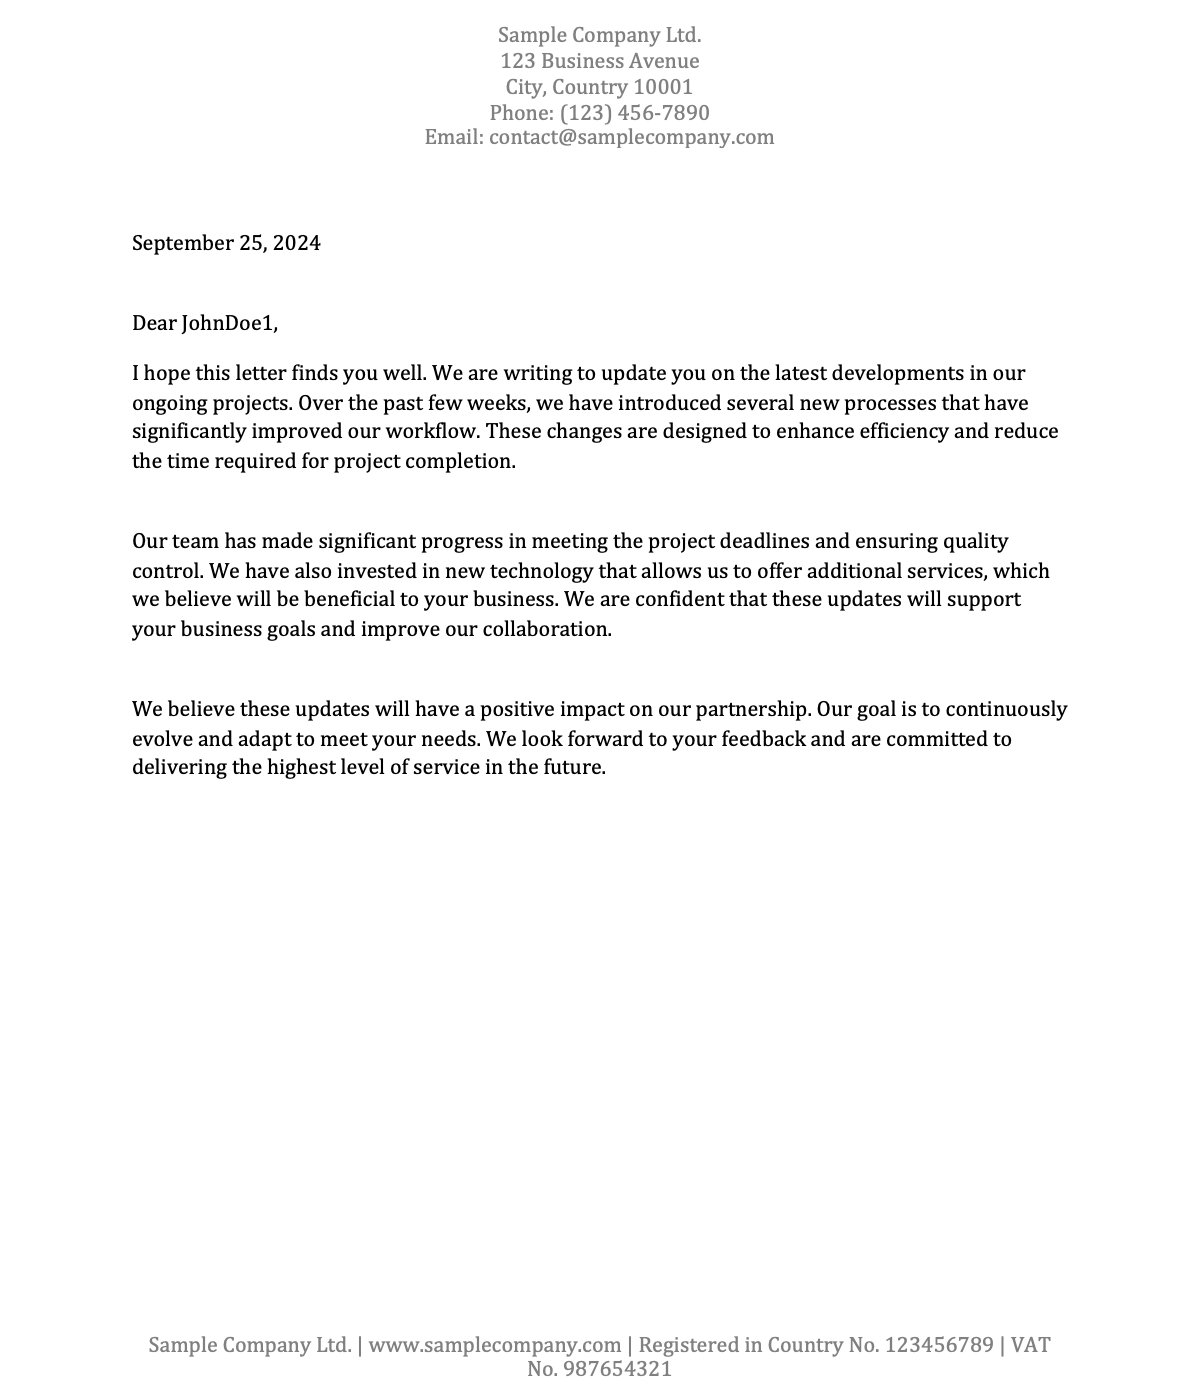
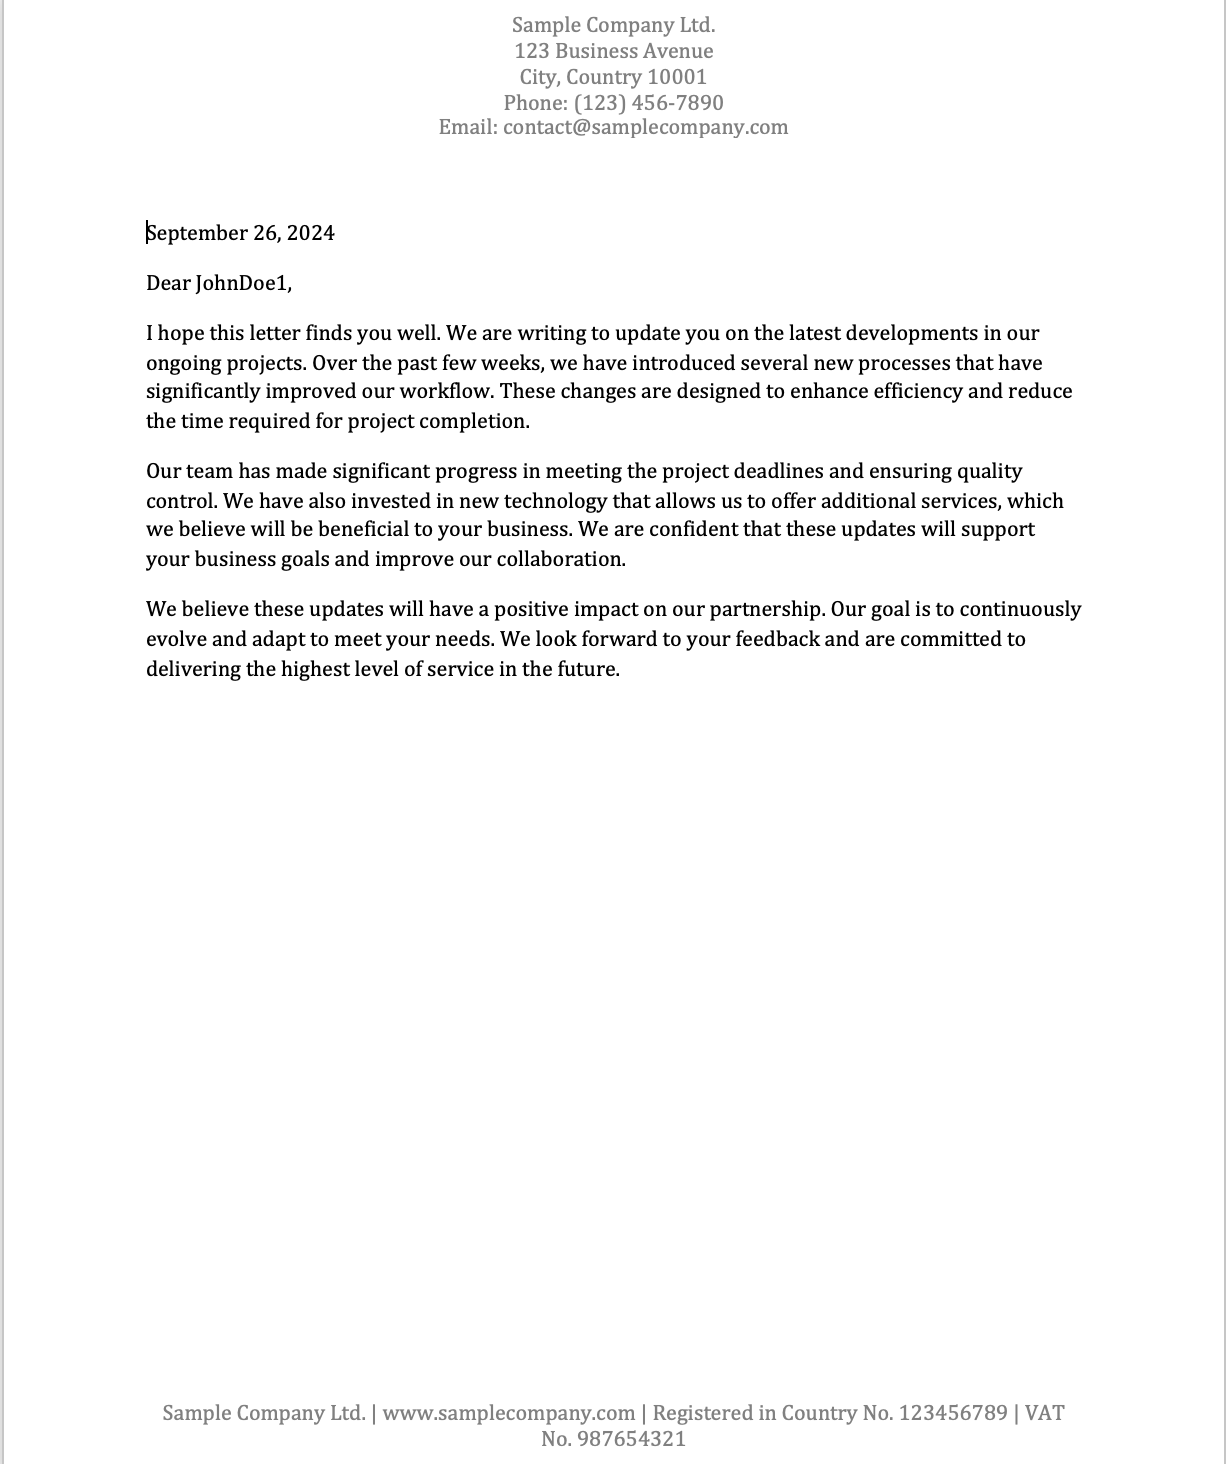
made some changes

diff --git a/document/template-with-header/main.go b/document/template-with-header/main.go
@@ -1,4 +1,4 @@
-// Copyright 2017 FoxyUtils ehf. All rights reserved.
+// Copyright 2024 FoxyUtils ehf. All rights reserved.
 
 package main
 
@@ -33,11 +33,15 @@ type letter struct {
 func main() {
 	letters, err := loadLetters("./data/letters.json")
 	if err != nil {
-		panic(err)
+		log.Printf("error opening json file %s", err)
+		return
 	}
 
 	for _, letter := range letters {
-		generateDoc("letter_template.docx", letter, fmt.Sprintf("./output/letter_to_%s.docx", letter.Receiver))
+		err := generateDoc("letter_template.docx", letter, fmt.Sprintf("./output/letter_to_%s.docx", letter.Receiver))
+		if err != nil {
+			fmt.Printf("failed to generate doc for letter to %s", letter.Receiver)
+		}
 	}
 }
 
@@ -72,14 +76,17 @@ func loadLetters(dataPath string) ([]letter, error) {
 func generateDoc(templatePath string, l letter, outputName string) error {
 	templateDoc, err := document.OpenTemplate(templatePath)
 	if err != nil {
-		log.Fatalf("error opening Windows Word 2016 document: %s", err)
+		return fmt.Errorf("error opening template file : %s", err)
 	}
 	defer templateDoc.Close()
 
-	// We can confirm the existence of the styles by printing them one by one
-	// for _, s := range templateDoc.Styles.Styles() {
-	// 	fmt.Println("style", s.Name(), "has ID of", s.StyleID(), "type is", s.Type())
-	// }
+	var Normal string // style for the body of the letter
+	for _, s := range templateDoc.Styles.Styles() {
+		// fmt.Println("style", s.Name(), "has ID of", s.StyleID(), "type is", s.Type())
+		if s.Name() == "Normal" {
+			Normal = s.Name()
+		}
+	}
 
 	// set header of the document if it exists.
 	if len(templateDoc.Headers()) > 0 {
@@ -95,31 +102,24 @@ func generateDoc(templatePath string, l letter, outputName string) error {
 
 	// take the formatting from the template for date time text
 	para := templateDoc.AddParagraph()
-	para.SetStyle("Normal") // style name taken from the doc.Styles.Styles() list
+	para.SetStyle(Normal) // style name taken from the doc.Styles.Styles() list
 	para.AddRun().AddText(dateTime)
-	run := para.AddRun()
-	run.AddBreak()
 
 	intro := fmt.Sprintf("Dear %s,", l.Receiver)
 	para = templateDoc.AddParagraph()
-	para.SetStyle("Normal") // style name taken from the doc.Styles.Styles()
+	para.SetStyle(Normal) // style name taken from the doc.Styles.Styles()
 	para.AddRun().AddText(intro)
 
 	for _, par := range l.Paragraphs {
 		para = templateDoc.AddParagraph()
-		para.SetStyle("Normal") // style name taken from the doc.Styles.Styles()
+		para.SetStyle(Normal) // style name taken from the doc.Styles.Styles()
 		para.AddRun().AddText(par)
-		run = para.AddRun()
-		run.AddBreak()
 	}
 
 	// set footer if it exists.
 	if len(templateDoc.Footers()) > 0 {
 		f := templateDoc.Footers()[0]
 		templateDoc.BodySection().SetFooter(f, wml.ST_HdrFtrDefault)
-		para = f.AddParagraph()
-		run := para.AddRun()
-		run.AddBreak()
 	}
 
 	err = templateDoc.SaveToFile(outputName)
